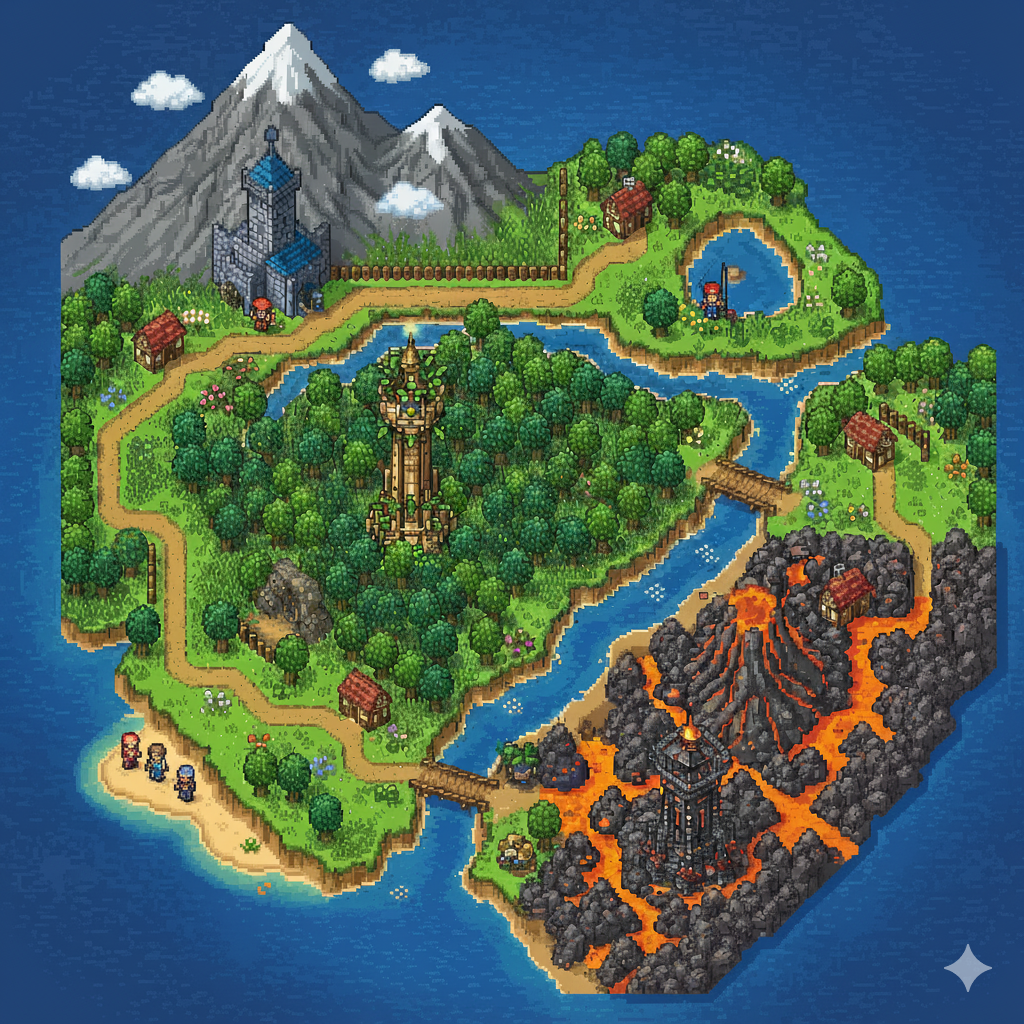
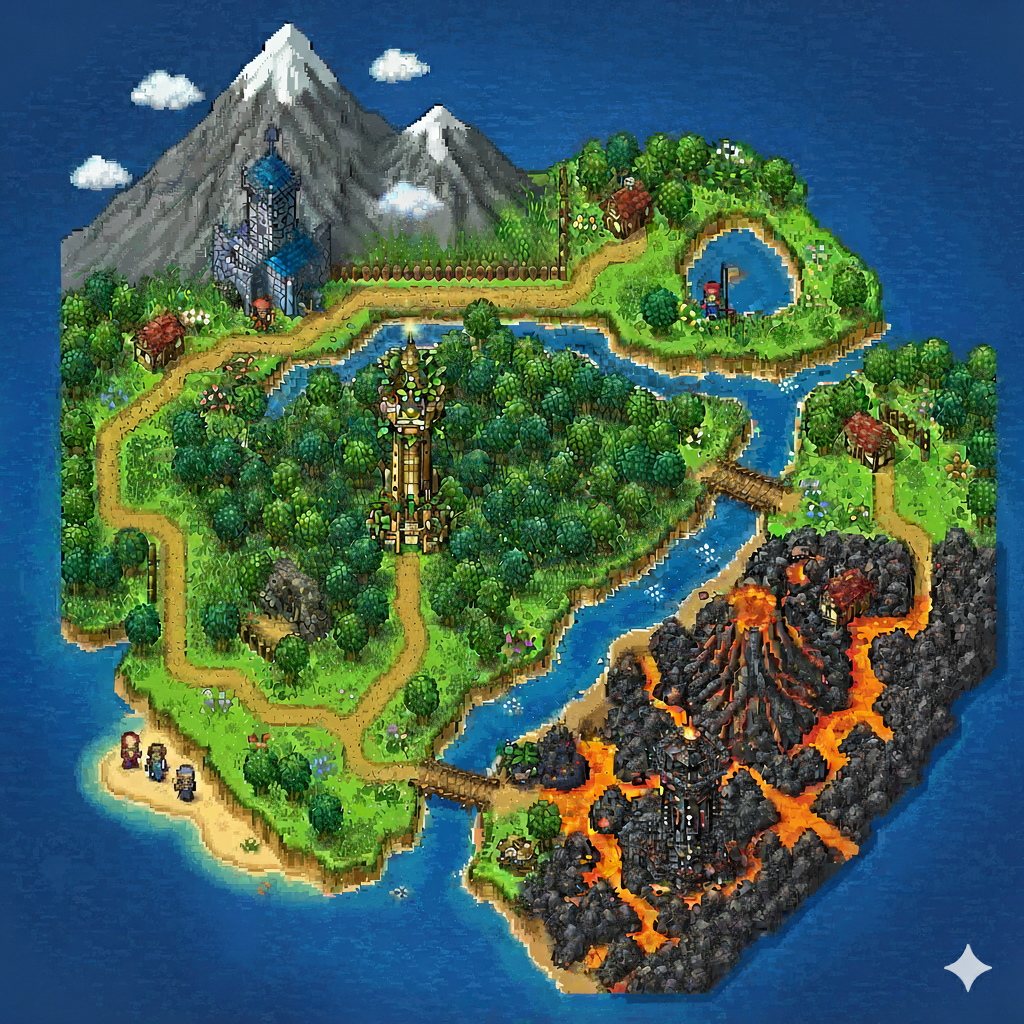
ajustando importação e algoritimo de leitura do mapa

Changed region(s): [[0.0312, 0.0312, 1.0, 0.9688], [0.9062, 0.9062, 0.9688, 0.9688]]

diff --git a/mapa/hitbox_mapa.c b/mapa/hitbox_mapa.c
@@ -5,59 +5,52 @@
 #include <raylib.h>
 #include "hitbox_mapa.h" // Inclui o cabeçalho para usar as definições
 
-#define Tile_estrada 1
-#define Tile_Nao_anda 0
+#define Tile_estrada 0
+#define Tile_Nao_anda 1
 
 // A definição da função agora corresponde à declaração em mapa.h
-void carregar_mapa(int mapa[Map_y][Map_x])
-{
+Texture carregar_mapa(int mapa[Map_y][Map_x]) {
     const char *imagem_path = "img/mapa.png";
+    
+    // Carrega a imagem original
     Image img = LoadImage(imagem_path);
     if (!img.data) {
-        TraceLog(LOG_ERROR, "Erro: nao foi possivel carregar a imagem do mapa '%s'", imagem_path);
-        return;
+        printf("Erro: nao foi possivel carregar %s\n", imagem_path);
+        return (Texture){0};
     }
 
-    for (int y = 0; y < Map_y; y++) { // Corrigido para Map_y (minúsculo)
-        for (int x = 0; x < Map_x; x++) { // Corrigido para Map_x (minúsculo)
-            
-            int pixelX = x * Tile_size + Tile_size / 2; // Corrigido para Tile_size
-            int pixelY = y * Tile_size + Tile_size / 2; // Corrigido para Tile_size
+    // Redimensiona a imagem para a resolução da janela
+    ImageResize(&img, Map_x * Tile_size, Map_y * Tile_size);
+
+    // Preenche a matriz do mapa (hitbox)
+    for (int y = 0; y < Map_y; y++) {
+        for (int x = 0; x < Map_x; x++) {
+            int pixelX = x * Tile_size + Tile_size / 2;
+            int pixelY = y * Tile_size + Tile_size / 2;
 
             if (pixelX >= img.width)  pixelX = img.width - 1;
             if (pixelY >= img.height) pixelY = img.height - 1;
 
             Color cor = GetImageColor(img, pixelX, pixelY);
+            int brilho = (cor.r + cor.g + cor.b) / 3;
 
-            // baseado nas teoria rgb e no codigo de cada uma ele analiza as cores que atendem as especificações abaixo
-            int brilho = (cor.r + cor.g + cor.b) / 3; // para pegar a cor escura
-            
-            // Verde predominante -> não andável (grama/floresta)
-            if (cor.g > cor.r && cor.g > cor.b) {
+            if (cor.g > cor.r && cor.g > cor.b)
                 mapa[y][x] = Tile_Nao_anda;
-            } 
-            // Azul -> água -> não andável
-            else if (cor.b > 150 && cor.g < 100) {
+            else if (cor.b > 150 && cor.g < 100)
                 mapa[y][x] = Tile_Nao_anda;
-            } 
-            // Escuro -> não andável
-            else if (brilho < 50) {
+            else if (brilho < 50)
                 mapa[y][x] = Tile_Nao_anda;
-            } 
-            // Vermelho e demais cores claras -> andável
-            else {
+            else
                 mapa[y][x] = Tile_estrada;
-            }
         }
     }
 
-    // Exportar mapa para debug(cria o txt que contem a matriz da hitbox do mapa)
+    // Exportar mapa para debug (gera map_hitbox.txt)
     FILE *f = fopen("map_hitbox.txt", "w");
     if (f) {
-        for (int y = 0; y < Map_y; y++) { // Corrigido para Map_y
-            for (int x = 0; x < Map_x; x++) { // Corrigido para Map_x
+        for (int y = 0; y < Map_y; y++) {
+            for (int x = 0; x < Map_x; x++)
                 fprintf(f, "%d", mapa[y][x]);
-            }
             fprintf(f, "\n");
         }
         fclose(f);
@@ -66,5 +59,35 @@ void carregar_mapa(int mapa[Map_y][Map_x])
         printf("Erro ao salvar map_hitbox.txt\n");
     }
 
+    // Cria a textura para desenhar na GPU
+    Texture tex = LoadTextureFromImage(img);
+
+    // Libera a imagem da RAM
     UnloadImage(img);
+
+    return tex;
+}
+
+
+
+void logica_de_colisao_movimentacao(Personagem *p, int mapa[Map_y][Map_x]){
+    //coordenadas do personagem
+    float dx= p->x;
+    float dy= p->y;
+    //movimentaçao
+    if(IsKeyDown(KEY_RIGHT)) dx += p->speed;
+    if(IsKeyDown(KEY_LEFT))  dx -= p->speed;
+    if(IsKeyDown(KEY_UP))    dy -= p->speed;
+    if(IsKeyDown(KEY_DOWN))  dy += p->speed;
+    //calculo da tile que ele estaria dps do movimento = chunk que ele esta conjunto de pixels 4x4
+    int tileX= (int)(dx/Tile_size);
+    int tileY= (int)(dy/Tile_size);
+    
+    // Verificar se está dentro do mapa
+    if (tileX >= 0 && tileX < Map_x && tileY >= 0 && tileY < Map_y){
+        if(mapa[tileY][tileX] == Tile_estrada){
+            p->x=dx;
+            p->y=dy;
+        }
+    }
 }

diff --git a/main.c b/main.c
@@ -13,33 +13,35 @@ int main(){
     SetTargetFPS(60); // fps
     
     int mapa[Map_y][Map_x];
-    carregar_mapa(mapa);
+    Texture fundo=carregar_mapa(mapa);
     
-    int x=screenX/2;
-    int y=screenY/2;
+    //personagem
+    Personagem p = {630, 227, 2.5f};
     
-    int speed = 3;
+    
+    
     char posText[32];
     while(!WindowShouldClose()){// loop principal + windowshouldclose= analise se a janela esta fechada, nesse caso o loop roda enquanto a janela esta aberta por causa do not
-        // --- MOVIMENTO ---
-        if (IsKeyDown(KEY_RIGHT)) x += speed;
-        if (IsKeyDown(KEY_LEFT))  x -= speed;
-        if (IsKeyDown(KEY_UP))    y -= speed;
-        if (IsKeyDown(KEY_DOWN))  y += speed;
-
-        // --- LIMITE DE TELA ---
-        if (x < 0) x = 0;
-        if (x > screenX) x = screenX;
-        if (y < 0) y = 0;
-        if (y > screenY) y = screenY;
         
-        
+        //atualiza a posição do personagem com a mecanica de colisao
+        logica_de_colisao_movimentacao(&p, mapa);
+        int x = (int)p.x;
+        int y = (int)p.y;
         sprintf(posText, "x: %d  y: %d", x, y);
+        
         BeginDrawing();
         ClearBackground(RAYWHITE);
-        
+
+        DrawTexture(fundo,0,0,WHITE);
+        for (int y = 0; y < Map_y; y++) {
+            for (int x = 0; x < Map_x; x++) {
+                Color c = (mapa[y][x] == Tile_Nao_anda) ? DARKGREEN : LIGHTGRAY;
+                DrawRectangle(x * Tile_size, y * Tile_size, Tile_size, Tile_size, c);
+            }
+        }
         DrawText(posText, 10, 10, 20, BLACK);
-        DrawCircle(x,y,10,RED);
+        DrawCircle(p.x,p.y,6,RED);
+
         EndDrawing();
         
     }

diff --git a/mapa/hitbox_mapa.h b/mapa/hitbox_mapa.h
@@ -5,10 +5,19 @@
 
 
 
-#define Tile_size 16
+#define Tile_size 8
 #define Map_x (1280/Tile_size)
 #define Map_y (720/Tile_size)
+#define Tile_estrada 0
+#define Tile_Nao_anda 1
 
-void carregar_mapa(int mapa[Map_y][Map_x]);
+typedef struct p{
+    float x;
+    float y;
+    float speed;
+}Personagem;
+
+Texture carregar_mapa(int mapa[Map_y][Map_x]);
+void logica_de_colisao_movimentacao(Personagem *p, int mapa[Map_y][Map_x]);
 
 #endif
